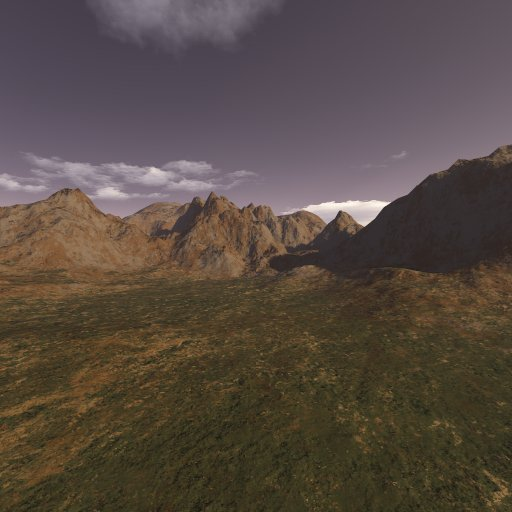
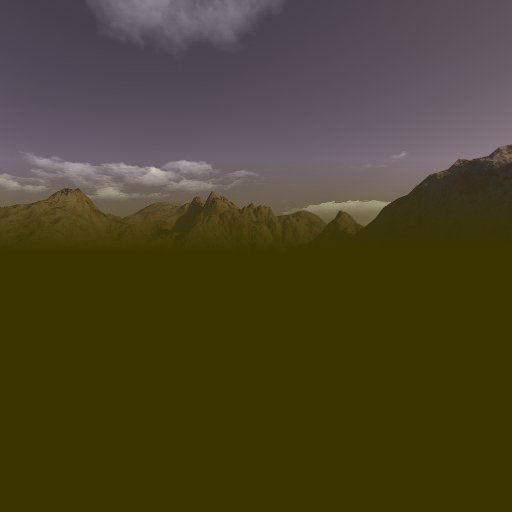
added dirty fog to the IrrOdeCar demo.

diff --git a/source/IrrOde/CIrrOdeContactParameters.cpp b/source/IrrOde/CIrrOdeContactParameters.cpp
@@ -7,6 +7,8 @@ namespace ode {
 void CIrrOdeContactParameters::calculateContactParameters(CIrrOdeSurfaceParameters *pParam1, CIrrOdeSurfaceParameters *pParam2, CIrrOdeSurfaceParameters *pParams) {
   s32 iMode=pParam1->getMode()&pParam2->getMode();
 
+  pParams->setMode(iMode);
+
   if (pParam1->getMode()&eContactApprox1 || pParam2->getMode()&eContactApprox1) pParams->setModeApprox1(true);
   if (pParam1->getMode()&eContactApprox1_1 || pParam2->getMode()&eContactApprox1_1) pParams->setModeApprox1_1(true);
   if (pParam1->getMode()&eContactApprox1_2 || pParam2->getMode()&eContactApprox1_2) pParams->setModeApprox1_2(true);
@@ -15,7 +17,8 @@ void CIrrOdeContactParameters::calculateContactParameters(CIrrOdeSurfaceParamete
   if (pParam1->getModeSlip1 () || pParam2->getModeSlip1 ()) pParams->setModeSlip1(true);
   if (pParam1->getModeSlip2 () || pParam2->getModeSlip2 ()) pParams->setModeSlip2(true);
 
-  pParams->setMode(iMode);
+  if (pParam1->getModeSoftCFM() || pParam2->getModeSoftCFM()) pParams->setModeSoftCFM(true);
+  if (pParam1->getModeSoftERP() || pParam2->getModeSoftERP()) pParams->setModeSoftERP(true);
 
   pParams->setMu       (sqrt(pParam1->getMu()       *pParam2->getMu()       )     );
   pParams->setMu2      (sqrt(pParam1->getMu2()      *pParam2->getMu2()      )     );

diff --git a/source/IrrOdeCar/irrodecar_main.cpp b/source/IrrOdeCar/irrodecar_main.cpp
@@ -443,7 +443,7 @@ int main(int argc, char** argv) {
     if (!p->physicsInitialized()) printf("\t\t--> %i (%s)\n",p->getID(),p->getName());
   }
 
-  driver->setFog(video::SColor(0xFF,0xA0,0xA0,0xC0),video::EFT_FOG_LINEAR,1750.0f,2100.0f,0.00001f,true,false);
+  driver->setFog(video::SColor(0xFF,0x3A,0x34,0x00),video::EFT_FOG_LINEAR,1750.0f,2100.0f,0.00001f,true,false);
   enableFog(smgr->getRootSceneNode());
 
   u32 iFrames=0,iTotalFps=0;
